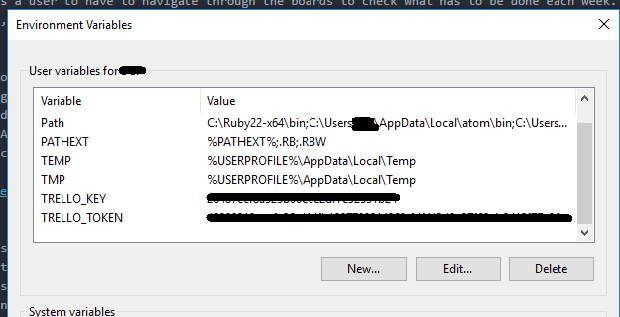
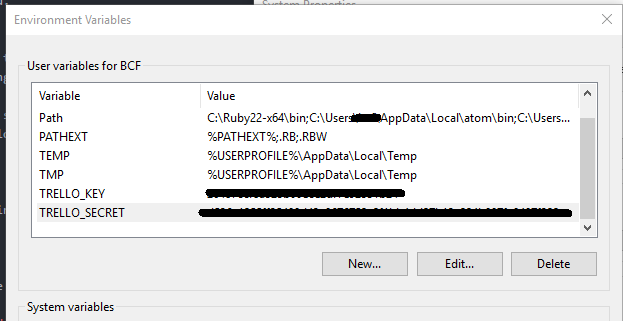
Update README.md with information about how to set up the extension

Changed region(s): [[0.0, 0.0, 1.0, 1.0]]

diff --git a/README.md b/README.md
@@ -20,26 +20,29 @@ The installation consists of 2 parts:
 1. Setting up a web server that listens to the Webhooks sent by Trello and acts as middleware between the power-up and the Trello API.
 2. Adding your Trello credentials as environment values.
 3. Installing the Trello power-up in the boards you want to sync.
-4. Creating the Admin Board.
+4. Last steps from the team page.
 
 ### Running the web server
-The first requisite to run the extension is to run it in a machine accessible through port 443 (HTTPS). **We recommend importing this repository into a [Glitch](https://www.google.com) project**, as it will take care of installing the dependencies and setting up the proxy to redirect the requests to the *node.js* server.
+The first requisite to run the extension is to run it in a machine accessible through port 443 (HTTPS). **We recommend importing this repository into a [Glitch](https://glitch.com/) project**, as it will take care of installing the dependencies and setting up the proxy to redirect the requests to the *node.js* server.
 
 However, if you have a web server ready, you may use it to install the extension:
-1. First, install the Trello Admin Board by cloning this repository and installing the dependencies.
+1. First go to the file *config/app.json* and change the value of the field *trello.urls.callback* to match your server address.
+2. Then, install the Trello Admin Board by cloning this repository and installing the dependencies.
     ```
     npm install
     ```
-2. Then run your server using:
+3. And run your server using:
     ```
     npm start
     ```
-3. You should see a message in your console saying that the server is up and running.
+4. You should see a message in your console saying that the server is up and running.
 
 ### Adding your Trello credentials
-In order to authenticate against the Trello API, the server needs the Trello credentials of the project administrator; both can be found and generated [here](https://trello.com/app-key).
+In order to authenticate against the Trello API, the server needs the Trello credentials of the team administrator; these can be found and generated [here](https://trello.com/app-key).
 
-These values need to be stored as environment variables with **TRELLO_KEY** and **TRELLO_TOKEN** as their respective keys in the machine where the server is running.
+These values need to be stored as environment variables with **TRELLO_KEY** and **TRELLO_SECRET** as their respective keys in the machine where the server is running. The way of doing this depends on the operative system where you are running the solution.
+
+Below you have a sample screenshot in a Windows environment.
 
 ![trello-admin-board](assets/img/trello_keys.png)
 
@@ -49,6 +52,17 @@ The last step consists of telling Trello where to find the *power-up* and of ins
 * Once in the Team page, click on *Create New Power-Up*.
 * Fill in the required fields, which are Power-Up Name and the URL to the manifest.json. The latter is served by the web server in which the extension is running.
 ![trello-admin-board](assets/img/trello_powerup.PNG)
+
+### Last steps from the team page
+If you have done everything right, now you should be able to see the power-up listed under *power-ups* from the board menu. The first thing you have to do is enable it in every board where you'd like to use it.
+![trello-admin-board](assets/img/enable_extension.gif)
+
+Once the administrator has enabled the power-up in the boards where its needed, it is time for the users to give the power-up access to their credentials. This is done using the OAuth mechanism provided by the Trello API and it is triggered as shown below:
+![trello-admin-board](assets/img/auth_extension.gif)
+
+The last thing the user needs to do in order to start working with the extension is to select the board that will act as the Admin Board. This is done by clicking on the button that is found on the top right corner of the board (*Make this my Admin Board*).
+![trello-admin-board](assets/img/trello_make_admin.PNG)
+
 
 ## Contributing
 
